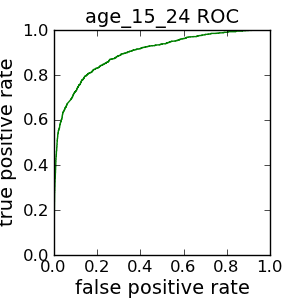
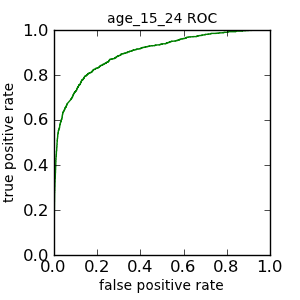
changed fontsizes

Changed region(s): [[0.24, 0.93, 0.84, 0.99], [0.0, 0.18, 0.06, 0.78], [0.27, 0.03, 0.81, 0.09]]

diff --git a/vb/demog3/tools.py b/vb/demog3/tools.py
@@ -76,10 +76,10 @@ def roc_graph(segment):
     plt.gcf().subplots_adjust(bottom=0.15)
     plt.gcf().subplots_adjust(left=0.18)
     plt.plot(fpr, tpr, 'g-')
-    plt.xlabel('false positive rate', fontsize=14)
-    plt.ylabel('true positive rate', fontsize=14)
+    plt.xlabel('false positive rate', fontsize=10)
+    plt.ylabel('true positive rate', fontsize=10)
     plt.axis([0, 1, 0, 1])
-    plt.title(segment + ' ROC', fontsize=14)
+    plt.title(segment + ' ROC', fontsize=10)
     plt.savefig('graphs/' + segment + '_roc.png')
 
 
@@ -96,8 +96,8 @@ def precision_recall_graph(segment):
     plt.gcf().subplots_adjust(bottom=0.15)
     plt.gcf().subplots_adjust(left=0.18)
     plt.plot(recall, precision, 'g-')
-    plt.xlabel('recall', fontsize=14)
-    plt.ylabel('precision', fontsize=14)
+    plt.xlabel('recall', fontsize=10)
+    plt.ylabel('precision', fontsize=10)
     plt.axis([0, 1, 0, 1])
-    plt.title(segment + ' precision / recall', fontsize=14)
+    plt.title(segment + ' precision / recall', fontsize=10)
     plt.savefig('graphs/' + segment + '_precision_recall.png')
